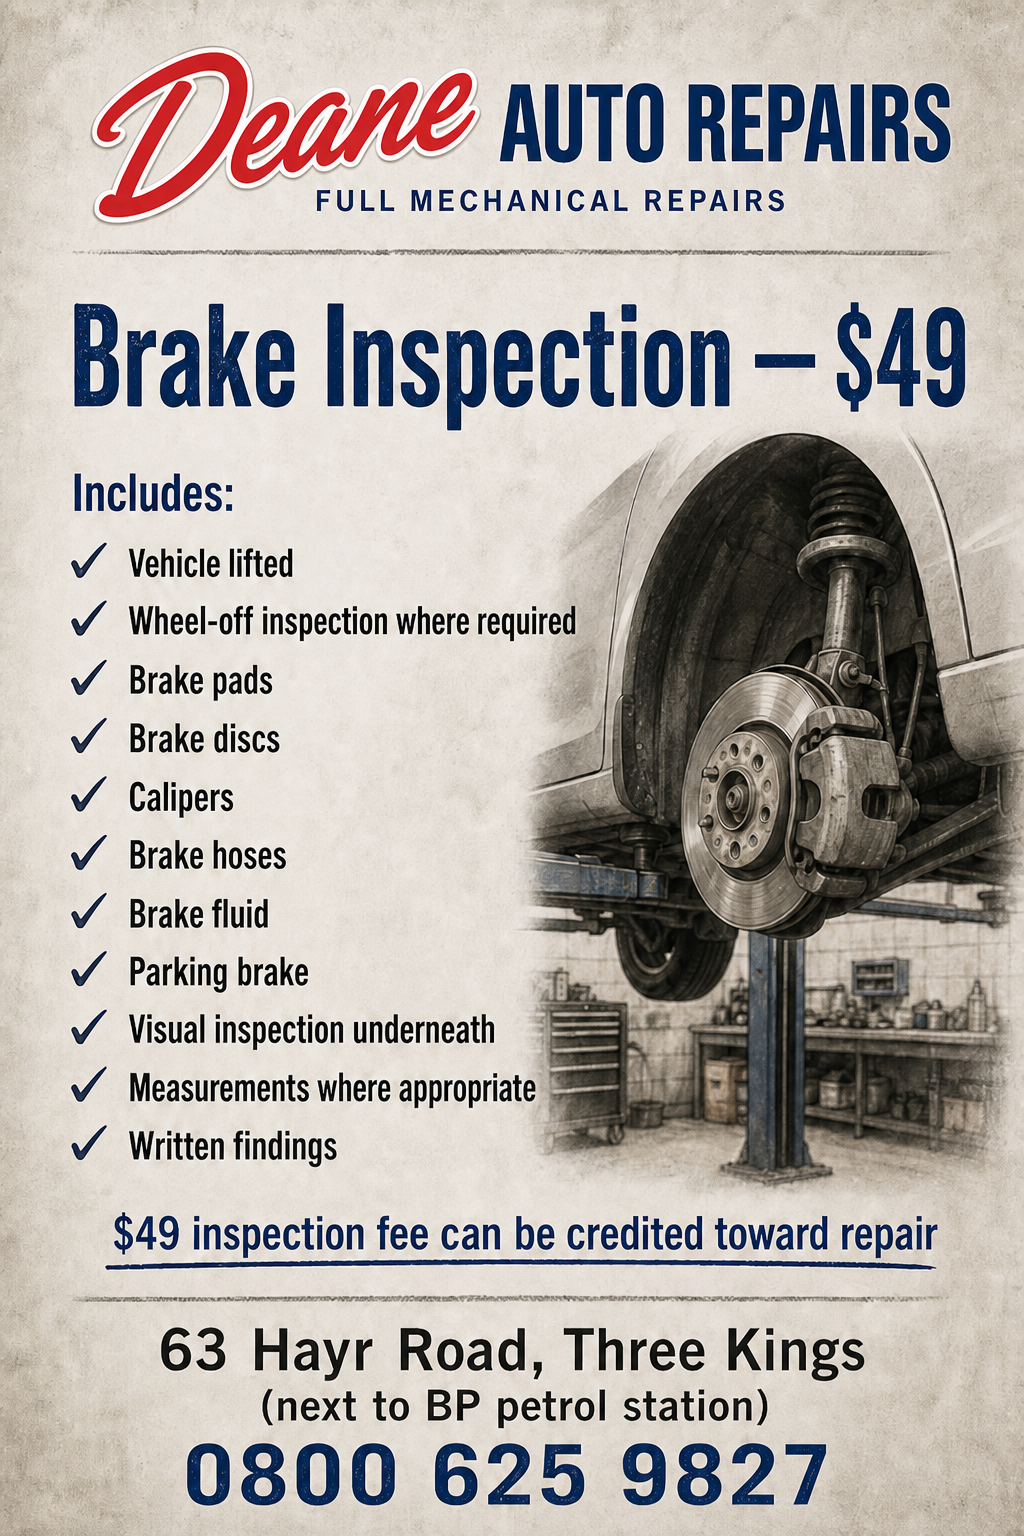
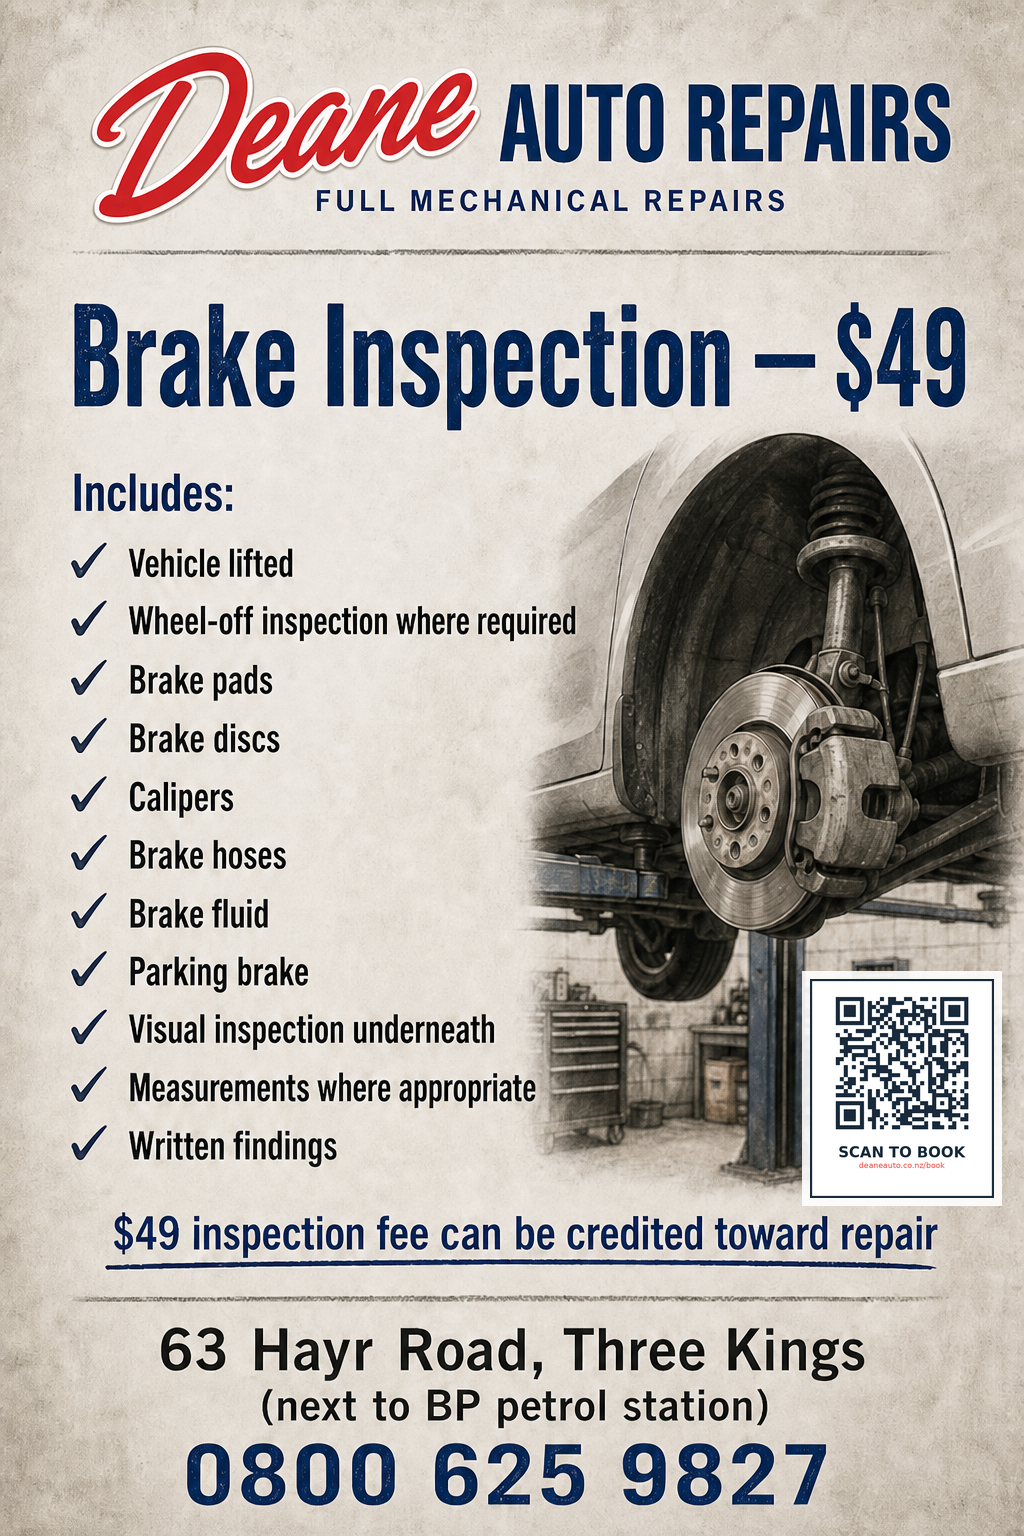
Add poster booking QR codes and short /book URL.
Customers can scan the print QR (deaneauto.co.nz/book) to open the website booking form; existing ads posters include the SCAN TO BOOK plate.

Changed region(s): [[0.7812, 0.625, 1.0, 0.8125]]

diff --git a/script.js b/script.js
@@ -98,6 +98,20 @@
     if (location.hash === "#full-checklist") openChecklist();
   });
 
+  /** Poster QR / short link: /book → scroll to booking form */
+  const goToBooking =
+    /^\/book\/?$/.test(location.pathname) || location.hash === "#book";
+  if (goToBooking) {
+    const book = document.querySelector("#book");
+    if (book) {
+      requestAnimationFrame(() => {
+        book.scrollIntoView({ behavior: "smooth", block: "start" });
+        const first = book.querySelector("input:not(.hp-field), select, textarea");
+        if (first) first.focus({ preventScroll: true });
+      });
+    }
+  }
+
   const setStatus = (message, type, allowHtml = false) => {
     if (!status) return;
     status.hidden = false;

diff --git a/server.js b/server.js
@@ -3730,6 +3730,13 @@ app.use(
 );
 app.use("/report", express.static(path.join(ROOT, "report"), { dotfiles: "deny" }));
 app.use("/billing", express.static(path.join(ROOT, "billing"), { dotfiles: "deny" }));
+
+/** Short booking URL for poster QR codes → opens the public booking form. */
+app.get(["/book", "/book/"], (req, res) => {
+  if (req.path === "/book/") return res.redirect(302, "/book");
+  res.sendFile(path.join(ROOT, "index.html"));
+});
+
 app.use(express.static(ROOT, { index: "index.html", dotfiles: "deny" }));
 
 app.get("/api/health", (_req, res) => {

diff --git a/data/business.js b/data/business.js
@@ -12,6 +12,8 @@ module.exports = {
   hoursSunday: "Sunday closed",
   gstNumber: "96-650-434",
   website: "https://www.deaneauto.co.nz",
+  /** Short URL for poster / flyer QR codes (opens the booking form). */
+  bookingUrl: "https://www.deaneauto.co.nz/book",
   logoPath: "/images/deane-auto-logo.jpg",
   // Street pin only — do not search "Deane Auto Repairs" (Google matches competitor Dean Auto Repairs).
   mapsUrl:

diff --git a/index.html b/index.html
@@ -415,6 +415,6 @@
       </div>
     </footer>
 
-    <script src="script.js?v=20260831a"></script>
+    <script src="script.js?v=20260902book"></script>
   </body>
 </html>

diff --git a/docs/poster-qr-booking.md b/docs/poster-qr-booking.md
@@ -1,0 +1,45 @@
+# Poster QR — book online
+
+Every promotional poster / flyer should include a **Scan to book** QR code so customers can open the website booking form on their phone.
+
+## Canonical booking URL
+
+```
+https://www.deaneauto.co.nz/book
+```
+
+This short link opens the public site and scrolls to the booking form (`#book`). Prefer this over a long homepage URL or a `#book` fragment alone (some phone cameras handle `/book` more reliably).
+
+## Print-ready assets
+
+| File | Use |
+|------|-----|
+| `exports/ads/qr-book-deaneauto.png` | High-res QR only (navy on white) |
+| `exports/ads/qr-book-deaneauto.svg` | Vector QR for Canva / Illustrator |
+| `exports/ads/qr-book-plate.png` | Drop-in plate: QR + **SCAN TO BOOK** + `deaneauto.co.nz/book` |
+
+Existing posters in `exports/ads/` already have the plate stamped on (bottom-right, above the footer).
+
+## Design rules
+
+1. Keep a **quiet zone** (white margin) around the QR — do not crop into the code.
+2. Minimum print size: about **25–30 mm** wide for the code itself (larger on A3).
+3. Place on a light / plain area, or use the white `qr-book-plate.png` card.
+4. Keep phone `0800 625 9827` on the poster as a fallback.
+5. Do not point the QR at GitHub Pages, localhost, or admin URLs.
+
+## Regenerate the QR
+
+If the live domain or path changes:
+
+```bash
+npx --yes qrcode -o exports/ads/qr-book-deaneauto.png -w 1024 -m 2 "https://www.deaneauto.co.nz/book"
+npx --yes qrcode -t svg -o exports/ads/qr-book-deaneauto.svg -m 2 "https://www.deaneauto.co.nz/book"
+```
+
+Then rebuild `qr-book-plate.png` (or re-export from Canva) and re-stamp new posters.
+
+## Copy line (optional)
+
+> Scan to book · or call 0800 625 9827  
+> Mon–Sat 8:30am – 5:30pm · Sunday closed

diff --git a/README.md b/README.md
@@ -48,6 +48,8 @@ On Render, set `ADMIN_PIN` in Environment (not in Git). If it is missing or too 
 | `data/checklist.js` | Standard / Full checklist |
 | `docs/service-checklist-and-wof-notes.md` | Spec |
 | `facebook-page.txt` | Facebook copy kit |
+| `docs/poster-qr-booking.md` | Poster QR → online booking |
+| `exports/ads/qr-book-*.png` | Print QR / SCAN TO BOOK plate |
 | `pre-purchase/ppi-form.html` | Pre-purchase report form with photo upload slots |
 
 Reports are stored in `data/reports.json` on this computer (simple local MVP).
